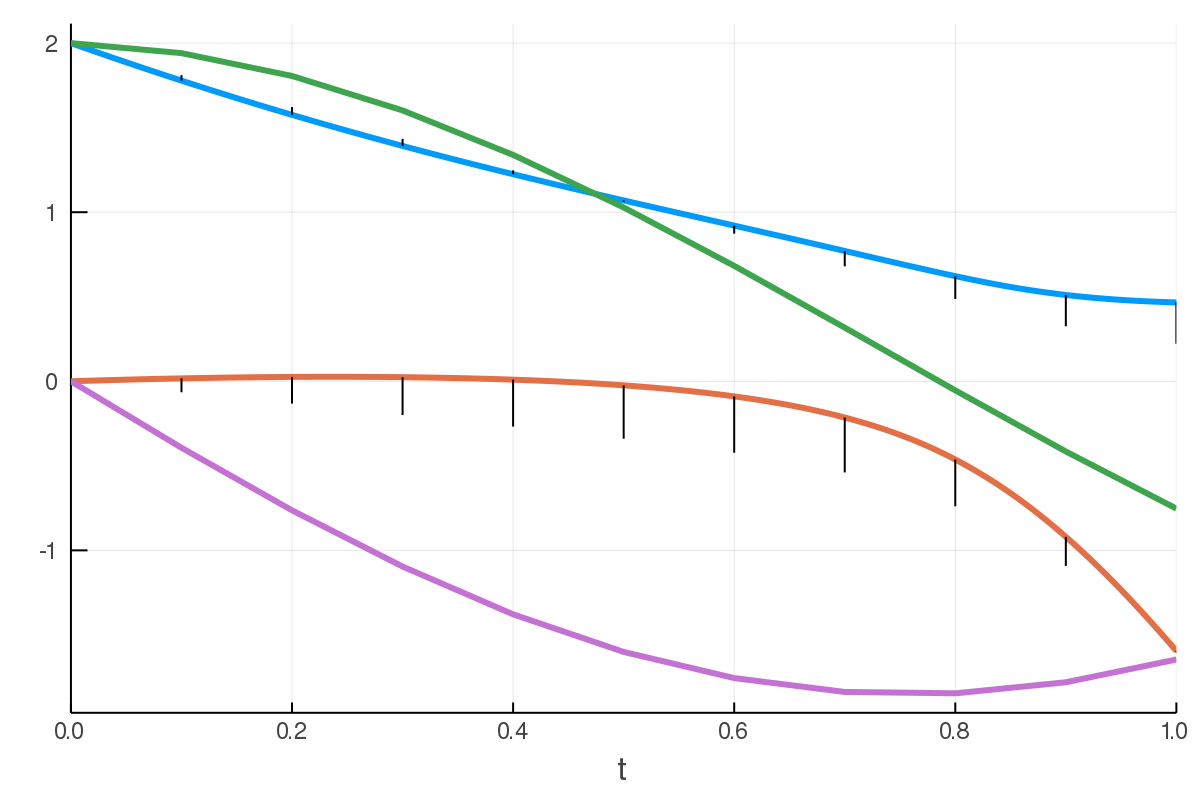
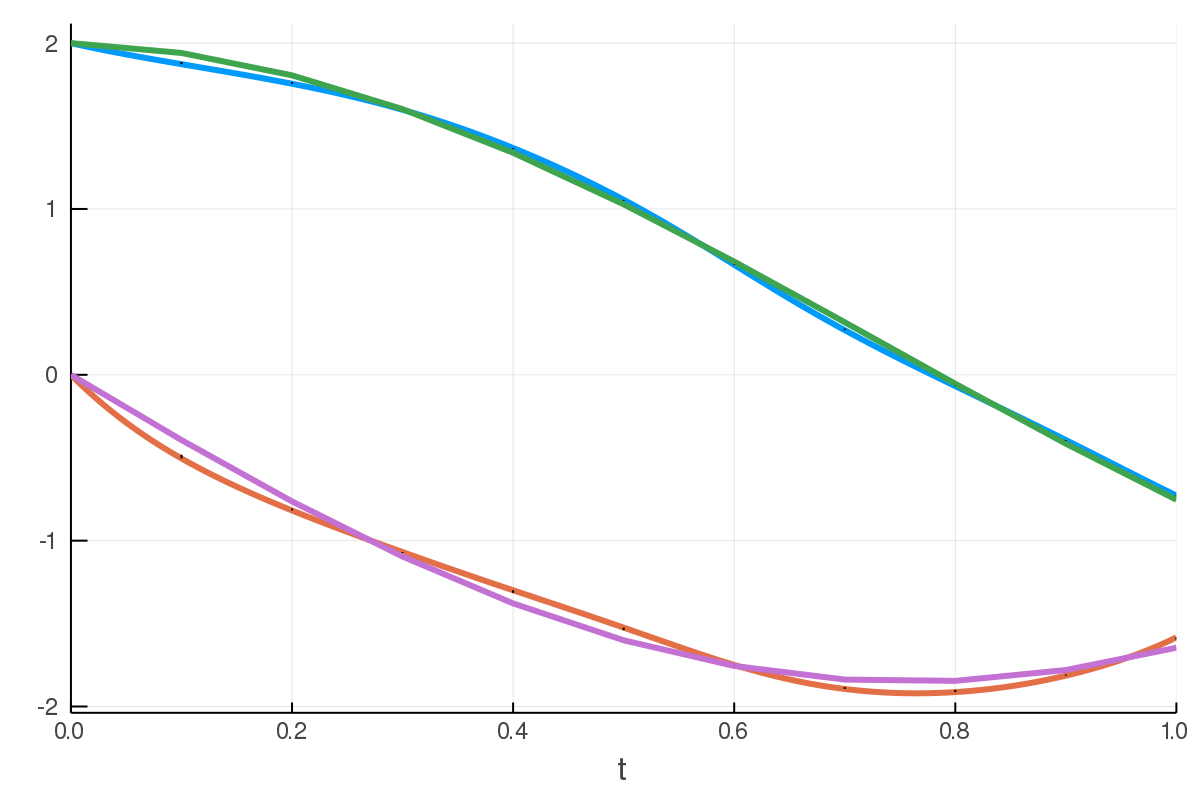
Hooray

diff --git a/hw/hw3/hw3.tex b/hw/hw3/hw3.tex
@@ -1,10 +1,9 @@
-% Created 2019-12-04 Wed 04:53
+% Created 2019-12-04 Wed 05:37
 % Intended LaTeX compiler: pdflatex
 \documentclass[11pt]{article}
 \usepackage[utf8]{inputenc}
 \usepackage[T1]{fontenc}
 \usepackage{graphicx}
-\usepackage{grffile}
 \usepackage{longtable}
 \usepackage{wrapfig}
 \usepackage{rotating}
@@ -62,6 +61,7 @@
 \addtolength{\textheight}{1.2in}
 \usemintedstyle{manni}
 \fi
+\graphicspath{/home/radical/dev/6.338/hw/hw3/}
 \author{James Gilles}
 \date{03 December 2019}
 \title{18.337 Homework 3}
@@ -85,7 +85,7 @@ using Random
 \end{minted}
 
 \section{Problem 1}
-\label{sec:org2855902}
+\label{sec:orgc27cdc4}
 We want to show
 $$\B_f^\xv(1) = \transpose{(\nabla f(\xv))}$$
 The pullback \(\B\) is defined:
@@ -101,7 +101,7 @@ But this is just the jacobian \(J_f=\tderiv{f}{\xv}\), which is
 $$\tderiv{f}{\xv}=\transpose{(\nabla f(\xv))}$$
 by the definition of the jacobian. \qed
 \section{Problem 2}
-\label{sec:org8da53b9}
+\label{sec:orgcecf3b6}
 We have $$\NN(u; W_i, b_i) = W_2 \tanh.(W_1 u + b_1) + b_2$$
 In julia:
 \begin{minted}[frame=lines,linenos=true,mathescape,breaklines=true]{julia}
@@ -218,7 +218,7 @@ allclose(a, b) = all(abs.(a .- b) .< .001)
 It works!
 
 \section{Problem 3}
-\label{sec:org3802e63}
+\label{sec:orge7d5bf2}
 \begin{minted}[frame=lines,linenos=true,mathescape,breaklines=true]{julia}
 function sensitivities(ts, u̅s, u0, ps)
     # takes: parameters, sample times, sample output sensitivities, starting state
@@ -251,16 +251,22 @@ function sensitivities(ts, u̅s, u0, ps)
     uu̅p̅1 = pack(u1, u̅1, p̅1)
 
     # stopping points
-    condition(u, t, int) = t in keys(t_to_u̅)
+    function condition(u, t, int)
+        t in keys(t_to_u̅)
+    end
     function effect!(int)
         int.u[1:2] = forward_sol(int.t)
-        int.u[3:4] = t_to_u̅[int.t]
+        #int.u[3:4] = t_to_u̅[int.t]
+        # 2(u(t_i) - data(t_i))
+        int.u[3:4] += t_to_u̅[int.t]
+        #print("effecting")
+        ()
     end
     cb = DiscreteCallback(condition, effect!)
 
     # solve backwards problem
     backward_prob = ODEProblem(aug_f, uu̅p̅1, (t1, t0), ps)
-    backward_sol = solve(backward_prob, Tsit5(), callback=cb, tstop=ts)
+    backward_sol = solve(backward_prob, Tsit5(), callback=cb, tstops=ts)
 
     # pack up results
     uu̅p̅0 = backward_sol(t0)
@@ -302,11 +308,11 @@ u0 = [1.0, 1.0]
 ps0 = [W1, W2, b1, b2]
 t0 = 0.0
 t1 = 1.0
-ts = t0:0.1:t1
+ts = t0:1.0:t1
 \end{minted}
 
 \begin{verbatim}
-0.0:0.1:1.0
+0.0:1.0:1.0
 \end{verbatim}
 
 
@@ -318,10 +324,11 @@ png(plot(sol, dpi=200), "plots/basic.png")
 \end{minted}
 
 \begin{center}
-\includegraphics[width=.9\linewidth]{plots/basic.png}
+\includegraphics[width=.9\linewidth]{./plots/basic.png}
 \end{center}
 
-Now, let's use ForwardDiff to verify our results:
+Now, let's use ForwardDiff to verify our results (for a single data point,
+since \texttt{ts} is set to have two entries)
 
 \begin{minted}[frame=lines,linenos=true,mathescape,breaklines=true]{julia}
 function full(x)
@@ -345,7 +352,7 @@ p̅0 = pack(p̅s0...)
 It works!!
 
 \section{Problem 4}
-\label{sec:org2d884b3}
+\label{sec:org5339d20}
 \begin{minted}[frame=lines,linenos=true,mathescape,breaklines=true]{julia}
 loss(us_c_, us_) = sum((us_c_ - us_).^2)
 loss_pullback(l̅, us_c, us) = l̅ * -2.0 .* (us_c - us)
@@ -365,7 +372,7 @@ us_c_ = hcat(us_c...)'
 
 ps = deepcopy(ps0)
 
-function train(ps; steps=500, α=.0001, snapshot_every=5,
+function train(ps; steps=500, α=.002, snapshot_every=3,
                slow_every=200)
     losses = Float64[]
     snapshots = Any[]
@@ -401,7 +408,7 @@ end
 
 ps, losses, snapshots = train(ps)
 nn_sol = evaluate(ts, u0, ps)
-png(plot(losses, dpi=200, xlabel="iteration", ylabel="loss"), "plots/loss.png")
+png(plot(losses, dpi=200, xlabel="iteration", ylabel="loss", yscale=:log10), "plots/loss.png")
 \end{minted}
 
 \begin{center}
@@ -451,4 +458,12 @@ function timeplot(snapshots, ts, u0, us_c)
 end
 timeplot(snapshots, ts, u0, us_c)
 \end{minted}
+
+\begin{verbatim}
+┌ Info: Saved animation to
+│   fn = /home/radical/dev/6.338/hw/hw3/tmp.gif
+└ @ Plots /home/radical/.julia/packages/Plots/h3o4c/src/animation.jl:95
+\end{verbatim}
+
+To see this animation, go to: \url{https://i.imgur.com/FuarJak.gifv}
 \end{document}
